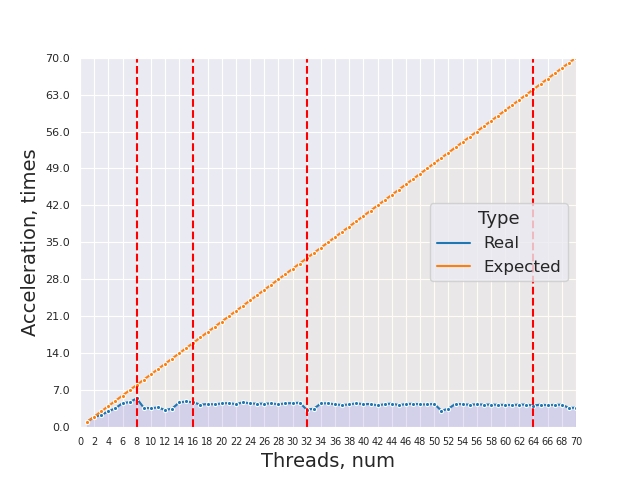
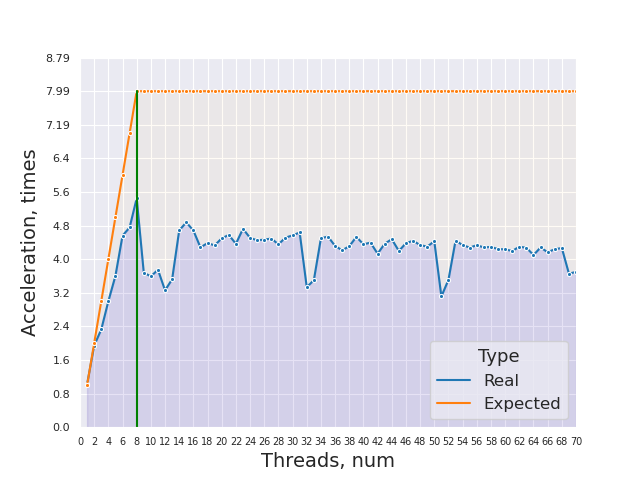
New graph constructor

diff --git a/lab2/graphs/graph.py b/lab2/graphs/graph.py
@@ -5,7 +5,7 @@ import pandas as pd
 from timing import ts, t_succ
 
 
-def get_plot(ylabel, unit, unitbound, threadbound, filename, all_ts):
+def get_plot(ylabel, unit, unitbound, threadbound, filename, all_ts, ymax, cores=8):
     plt.clf()
     datalen = threadbound
 
@@ -40,52 +40,60 @@ def get_plot(ylabel, unit, unitbound, threadbound, filename, all_ts):
     p.set_xticklabels([str(x) for x in srange(0, datalen + 1, step)])
 
     step = unitbound / 10
-    p.set_yticks(srange(0, unitbound + step, step))
+    p.set_yticks(srange(0, unitbound + step + 0.5, step))
     p.set_yticklabels(
-        [str(floor(100 * x) / 100.0) for x in srange(0, unitbound + step, step)]
+        [str(floor(100 * x) / 100.0) for x in srange(0, unitbound + step + 0.5, step)]
     )
 
-    for _ in range(3, 7):
-        p.axvline(x=2**_, color="red", linestyle="--", label="cores")
+    m1 = srange(0, unitbound + step + 0.5, step)[-1]
+    m2 = ymax
+    m1, m2 = max(m1, m2), min(m1, m2)
 
+    p.axvline(x=cores, ymin=0, ymax= m2 / m1, color="green", linestyle="-", label="cores")
 
     p.figure.savefig(filename)
 
 
 threadbound = 70
+cores = 8
 ts = ts[:threadbound]
 t_succ = ts[0][1]
 
 ts = [[x[0], x[1] * 1000] for x in ts]
+
 ts_ds = [[x[0], x[1], "Real"] for x in ts]
 acc_ds = [[x[0], t_succ * 1000 / x[1], "Real"] for x in ts]
 eff_ds = [[x[0], x[1] / x[0], "Real"] for x in acc_ds]
 
-exp_ts = [[i, t_succ * 1000 / i, "Expected"] for i in range(1, threadbound + 1)]
-exp_acc = [[i, i, "Expected"] for i in range(1, threadbound + 1)]
-exp_eff = [[i, 1, "Expected"] for i in range(1, threadbound + 1)]
+exp_ts = [[i, t_succ * 1000 / i, "Expected"] for i in range(1, cores + 1)] + [
+    [i, t_succ * 1000 / cores, "Expected"] for i in range(cores + 1, threadbound + 1)
+]
+exp_acc = [[i, i, "Expected"] for i in range(1, cores + 1)] + [
+    [i, cores, "Expected"] for i in range(cores + 1, threadbound + 1)
+]
+exp_eff = [[i, 1, "Expected"] for i in range(1, cores + 1)] + [
+    [i, cores / i, "Expected"] for i in range(cores + 1, threadbound + 1)
+]
 
 columns = ["Threads", "AvgTime", "Type"]
 got_ts_df = pd.DataFrame(ts_ds, columns=columns)
 exp_ts_df = pd.DataFrame(exp_ts, columns=columns)
 all_ts = pd.concat([got_ts_df, exp_ts_df])
-
 unitbound = int(ceil(max([x[1] for x in ts])))
-get_plot("AvgTime", "ms", unitbound, threadbound, "AvgTime.png", all_ts)
+get_plot("AvgTime", "ms", unitbound, threadbound, "AvgTime.png", all_ts, max(ts_ds[0][1], exp_ts[0][1]))
 
 columns = ["Threads", "Acceleration", "Type"]
 got_acc_df = pd.DataFrame(acc_ds, columns=columns)
 exp_acc_df = pd.DataFrame(exp_acc, columns=columns)
 all_ts = pd.concat([got_acc_df, exp_acc_df])
-
 unitbound = max(
     int(ceil(max([x[1] for x in acc_ds]))), int(ceil(max([x[1] for x in exp_acc])))
 )
-get_plot("Acceleration", "times", unitbound, threadbound, "Acceleration.png", all_ts)
+get_plot("Acceleration", "times", unitbound, threadbound, "Acceleration.png", all_ts, max(acc_ds[cores-1][1], exp_acc[cores-1][1]))
 
 columns = ["Threads", "Efficiency", "Type"]
 got_eff_df = pd.DataFrame(eff_ds, columns=columns)
 exp_eff_df = pd.DataFrame(exp_eff, columns=columns)
 all_ts = pd.concat([got_eff_df, exp_eff_df])
 unitbound = int(ceil(max([x[1] for x in eff_ds])))
-get_plot("Efficiency", "thread^-1", unitbound, threadbound, "Efficiency.png", all_ts)
+get_plot("Efficiency", "thread^-1", unitbound, threadbound, "Efficiency.png", all_ts, max(eff_ds[0][1], exp_eff[0][1]))

diff --git a/lab1/graphs/graph.py b/lab1/graphs/graph.py
@@ -5,7 +5,7 @@ import pandas as pd
 from timing import ts, t_succ
 
 
-def get_plot(ylabel, unit, unitbound, threadbound, filename, all_ts):
+def get_plot(ylabel, unit, unitbound, threadbound, filename, all_ts, ymax, cores=8):
     plt.clf()
     datalen = threadbound
 
@@ -40,50 +40,59 @@ def get_plot(ylabel, unit, unitbound, threadbound, filename, all_ts):
     p.set_xticklabels([str(x) for x in srange(0, datalen + 1, step)])
 
     step = unitbound / 10
-    p.set_yticks(srange(0, unitbound + step, step))
+    p.set_yticks(srange(0, unitbound + step + 0.5, step))
     p.set_yticklabels(
-        [str(floor(100 * x) / 100.0) for x in srange(0, unitbound + step, step)]
+        [str(floor(100 * x) / 100.0) for x in srange(0, unitbound + step + 0.5, step)]
     )
-    
-    for _ in range(3, 7):
-        p.axvline(x=2**_, color="red", linestyle="--", label="cores")
+
+    m1 = srange(0, unitbound + step + 0.5, step)[-1]
+    m2 = ymax
+    m1, m2 = max(m1, m2), min(m1, m2)
+
+    p.axvline(x=cores, ymin=0, ymax= m2 / m1, color="green", linestyle="-", label="cores")
 
     p.figure.savefig(filename)
 
 
 threadbound = 70
+cores = 8
 ts = ts[:threadbound]
 
 ts = [[x[0], x[1] * 1000] for x in ts]
+
 ts_ds = [[x[0], x[1], "Real"] for x in ts]
 acc_ds = [[x[0], t_succ * 1000 / x[1], "Real"] for x in ts]
 eff_ds = [[x[0], x[1] / x[0], "Real"] for x in acc_ds]
 
-exp_ts = [[i, t_succ * 1000 / i, "Expected"] for i in range(1, threadbound + 1)]
-exp_acc = [[i, i, "Expected"] for i in range(1, threadbound + 1)]
-exp_eff = [[i, 1, "Expected"] for i in range(1, threadbound + 1)]
+exp_ts = [[i, t_succ * 1000 / i, "Expected"] for i in range(1, cores + 1)] + [
+    [i, t_succ * 1000 / cores, "Expected"] for i in range(cores + 1, threadbound + 1)
+]
+exp_acc = [[i, i, "Expected"] for i in range(1, cores + 1)] + [
+    [i, cores, "Expected"] for i in range(cores + 1, threadbound + 1)
+]
+exp_eff = [[i, 1, "Expected"] for i in range(1, cores + 1)] + [
+    [i, cores / i, "Expected"] for i in range(cores + 1, threadbound + 1)
+]
 
 columns = ["Threads", "AvgTime", "Type"]
 got_ts_df = pd.DataFrame(ts_ds, columns=columns)
 exp_ts_df = pd.DataFrame(exp_ts, columns=columns)
 all_ts = pd.concat([got_ts_df, exp_ts_df])
-
 unitbound = int(ceil(max([x[1] for x in ts])))
-get_plot("AvgTime", "ms", unitbound, threadbound, "AvgTime.png", all_ts)
+get_plot("AvgTime", "ms", unitbound, threadbound, "AvgTime.png", all_ts, max(ts_ds[0][1], exp_ts[0][1]))
 
 columns = ["Threads", "Acceleration", "Type"]
 got_acc_df = pd.DataFrame(acc_ds, columns=columns)
 exp_acc_df = pd.DataFrame(exp_acc, columns=columns)
 all_ts = pd.concat([got_acc_df, exp_acc_df])
-
 unitbound = max(
     int(ceil(max([x[1] for x in acc_ds]))), int(ceil(max([x[1] for x in exp_acc])))
 )
-get_plot("Acceleration", "times", unitbound, threadbound, "Acceleration.png", all_ts)
+get_plot("Acceleration", "times", unitbound, threadbound, "Acceleration.png", all_ts, max(acc_ds[cores-1][1], exp_acc[cores-1][1]))
 
 columns = ["Threads", "Efficiency", "Type"]
 got_eff_df = pd.DataFrame(eff_ds, columns=columns)
 exp_eff_df = pd.DataFrame(exp_eff, columns=columns)
 all_ts = pd.concat([got_eff_df, exp_eff_df])
 unitbound = int(ceil(max([x[1] for x in eff_ds])))
-get_plot("Efficiency", "thread^-1", unitbound, threadbound, "Efficiency.png", all_ts)
+get_plot("Efficiency", "thread^-1", unitbound, threadbound, "Efficiency.png", all_ts, max(eff_ds[0][1], exp_eff[0][1]))
